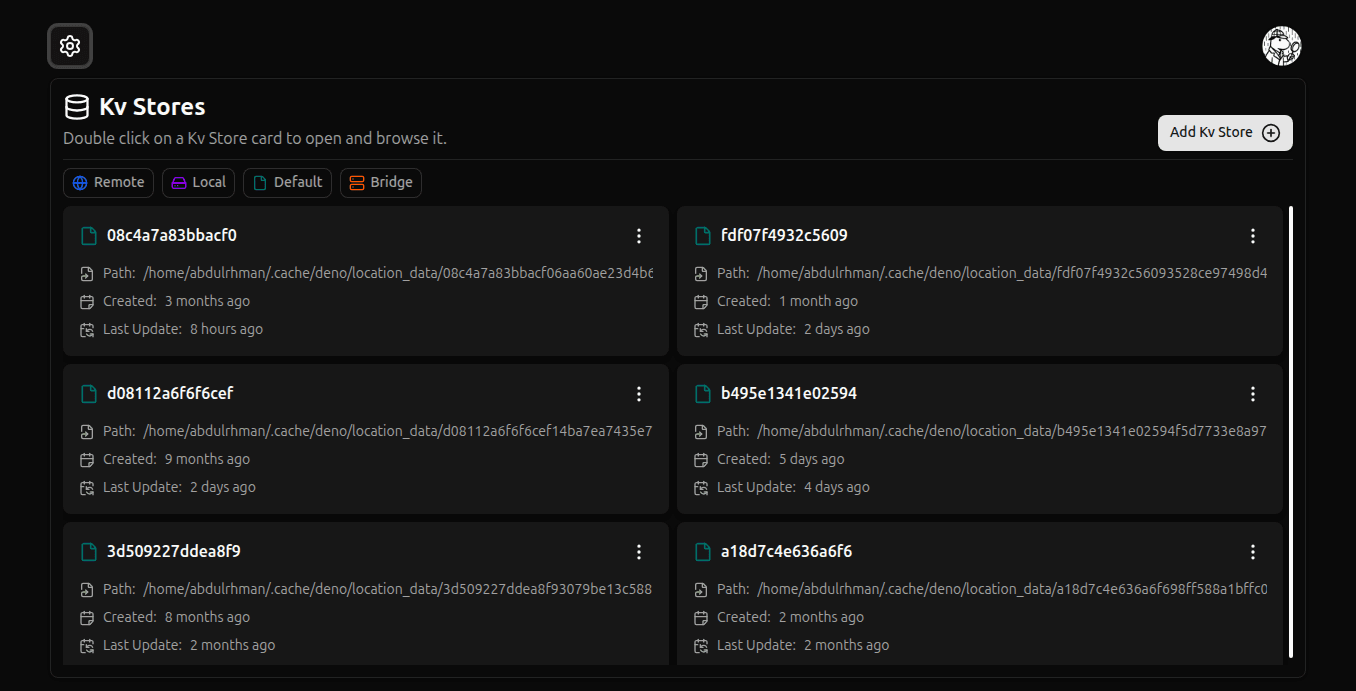
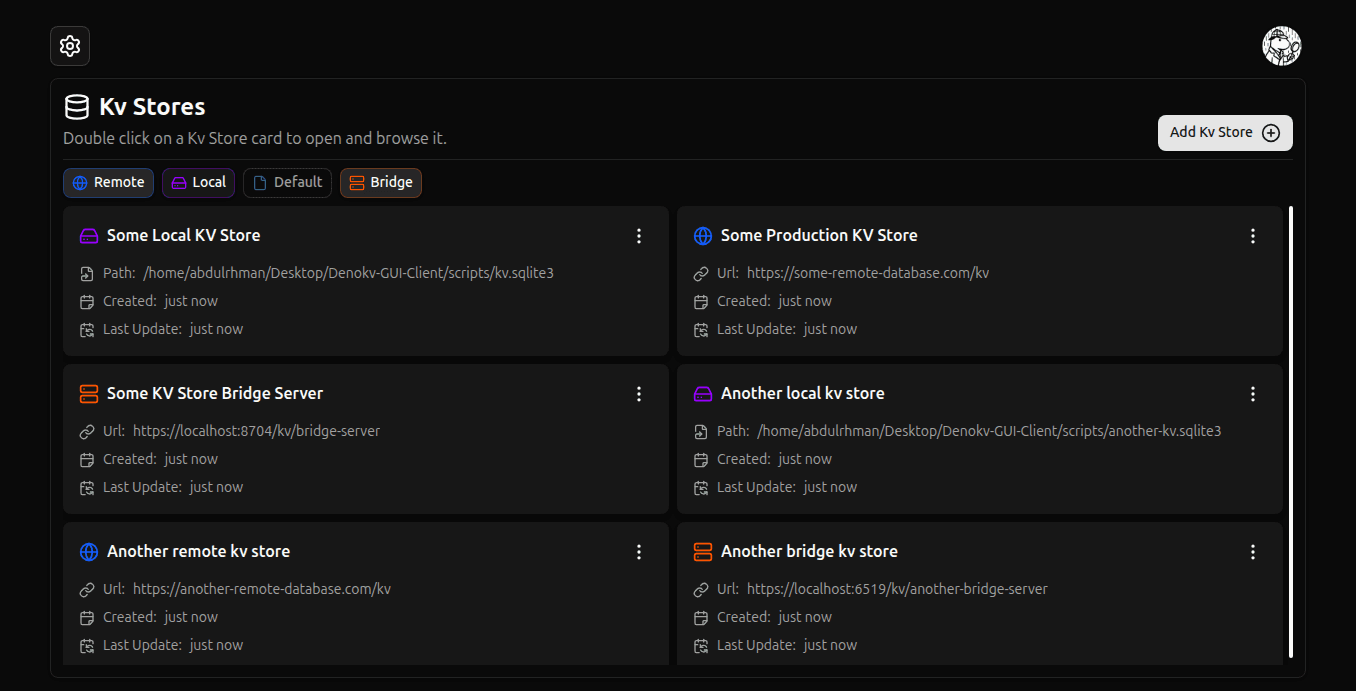
chore: update KV Stores grid screenshots

diff --git a/scripts/takeScreenshots.ts b/scripts/takeScreenshots.ts
@@ -30,43 +30,63 @@ electronApp.on('console', (msg) => {
     }
 });
 
+const kvStores = [
+    {
+        name: "Some Local KV Store",
+        url: path.join(import.meta.dirname, "kv.sqlite3"),
+        type: "local",
+        accessToken: null,
+        authToken: null,
+    },
+    {
+        name: "Some Production KV Store",
+        url: "https://some-remote-database.com/kv",
+        type: "remote",
+        accessToken: "some-access-token",
+        authToken: null,
+    },
+    {
+        name: "Some KV Store Bridge Server",
+        url: "https://localhost:8704/kv/bridge-server",
+        type: "bridge",
+        accessToken: null,
+        authToken: "some-auth-token",
+    },
+    {
+        name: "Another local kv store",
+        url: path.join(import.meta.dirname, "another-kv.sqlite3"),
+        type: "local",
+        accessToken: null,
+        authToken: null,
+    },
+    {
+        name: "Another remote kv store",
+        url: "https://another-remote-database.com/kv",
+        type: "remote",
+        accessToken: "another-access-token",
+        authToken: null,
+    },
+    {
+        name: "Another bridge kv store",
+        url: "https://localhost:6519/kv",
+        type: "bridge",
+        accessToken: null,
+        authToken: null,
+    },
+]
+
 try {
     const page = await electronApp.firstWindow();
+    page.on('pageerror', (error) => console.error('Page error:', error));
 
-    // Capture errors
-    page.on('pageerror', (error) => {
-        console.error('Page error:', error);
-    });
-
-    // Wait for the page to load
     await page.waitForLoadState('load');
 
-    await page.evaluate(async (localKvStorePath) => {
+    await page.evaluate(async (kvStores) => {
         const kvStoresService = globalThis[btoa('kvStoresService') as keyof typeof globalThis]
-        await kvStoresService.create({
-            name: "Some Local KV Store",
-            url: localKvStorePath,
-            type: "local",
-            accessToken: null,
-            authToken: null,
-        })
-
-        await kvStoresService.create({
-            name: "Some Production KV Store",
-            url: "https://some-remote-database.com/kv",
-            type: "remote",
-            accessToken: "some-access-token",
-            authToken: null,
-        })
-
-        await kvStoresService.create({
-            name: "Some KV Store Bridge Server",
-            url: "https://localhost:8704/kv/bridge-server",
-            type: "bridge",
-            accessToken: null,
-            authToken: "some-auth-token",
-        })
-    }, path.join(import.meta.dirname, "kv.sqlite3"));
+        for (const kvStore of kvStores) {
+            await kvStoresService.create(kvStore)
+        }
+    }, kvStores);
 
     await takeScreenshots(page)
 } finally {
@@ -74,10 +94,13 @@ try {
 
     writeFileSync(path.resolve(import.meta.dirname, '../tests/database.test.sqlite'), "")
 
-    const testingKvStorePath = path.resolve(import.meta.dirname, 'kv.sqlite3')
-    rmSync(testingKvStorePath, { force: true })
-    rmSync(`${testingKvStorePath}-shm`, { force: true })
-    rmSync(`${testingKvStorePath}-wal`, { force: true })
+    for (const kvStore of kvStores) {
+        if (kvStore.type === "local") {
+            rmSync(kvStore.url, { force: true })
+            rmSync(`${kvStore.url}-shm`, { force: true })
+            rmSync(`${kvStore.url}-wal`, { force: true })
+        }
+    }
 
     for (const file of readdirSync("./screenshots")) {
         if (file.endsWith(".temp.png")) {
@@ -120,6 +143,7 @@ async function takeScreenshotOfTheme(page: Page, name: string) {
 
 async function takeScreenshotOfSettingsPage(page: Page) {
     await page.locator("button svg.lucide-settings").click();
+    await page.locator("button svg.lucide-sun").click();
     await page.waitForTimeout(100);
     await takeScreenshotOfTheme(page, "SettingsPage")
     await page.keyboard.press('Escape');
@@ -127,6 +151,10 @@ async function takeScreenshotOfSettingsPage(page: Page) {
 }
 
 async function takeScreenshotOfKvStoresGrid(page: Page) {
+    await page.reload()
+    await page.locator("button", { has: page.locator("svg.lucide-globe"), hasText: "Remote" }).click();
+    await page.locator("button", { has: page.locator("svg.lucide-server"), hasText: "Bridge" }).click();
+    await page.locator("button", { has: page.locator("svg.lucide-hard-drive"), hasText: "Local" }).click();
     await takeScreenshotOfTheme(page, "KvStoresGrid")
 }
 
